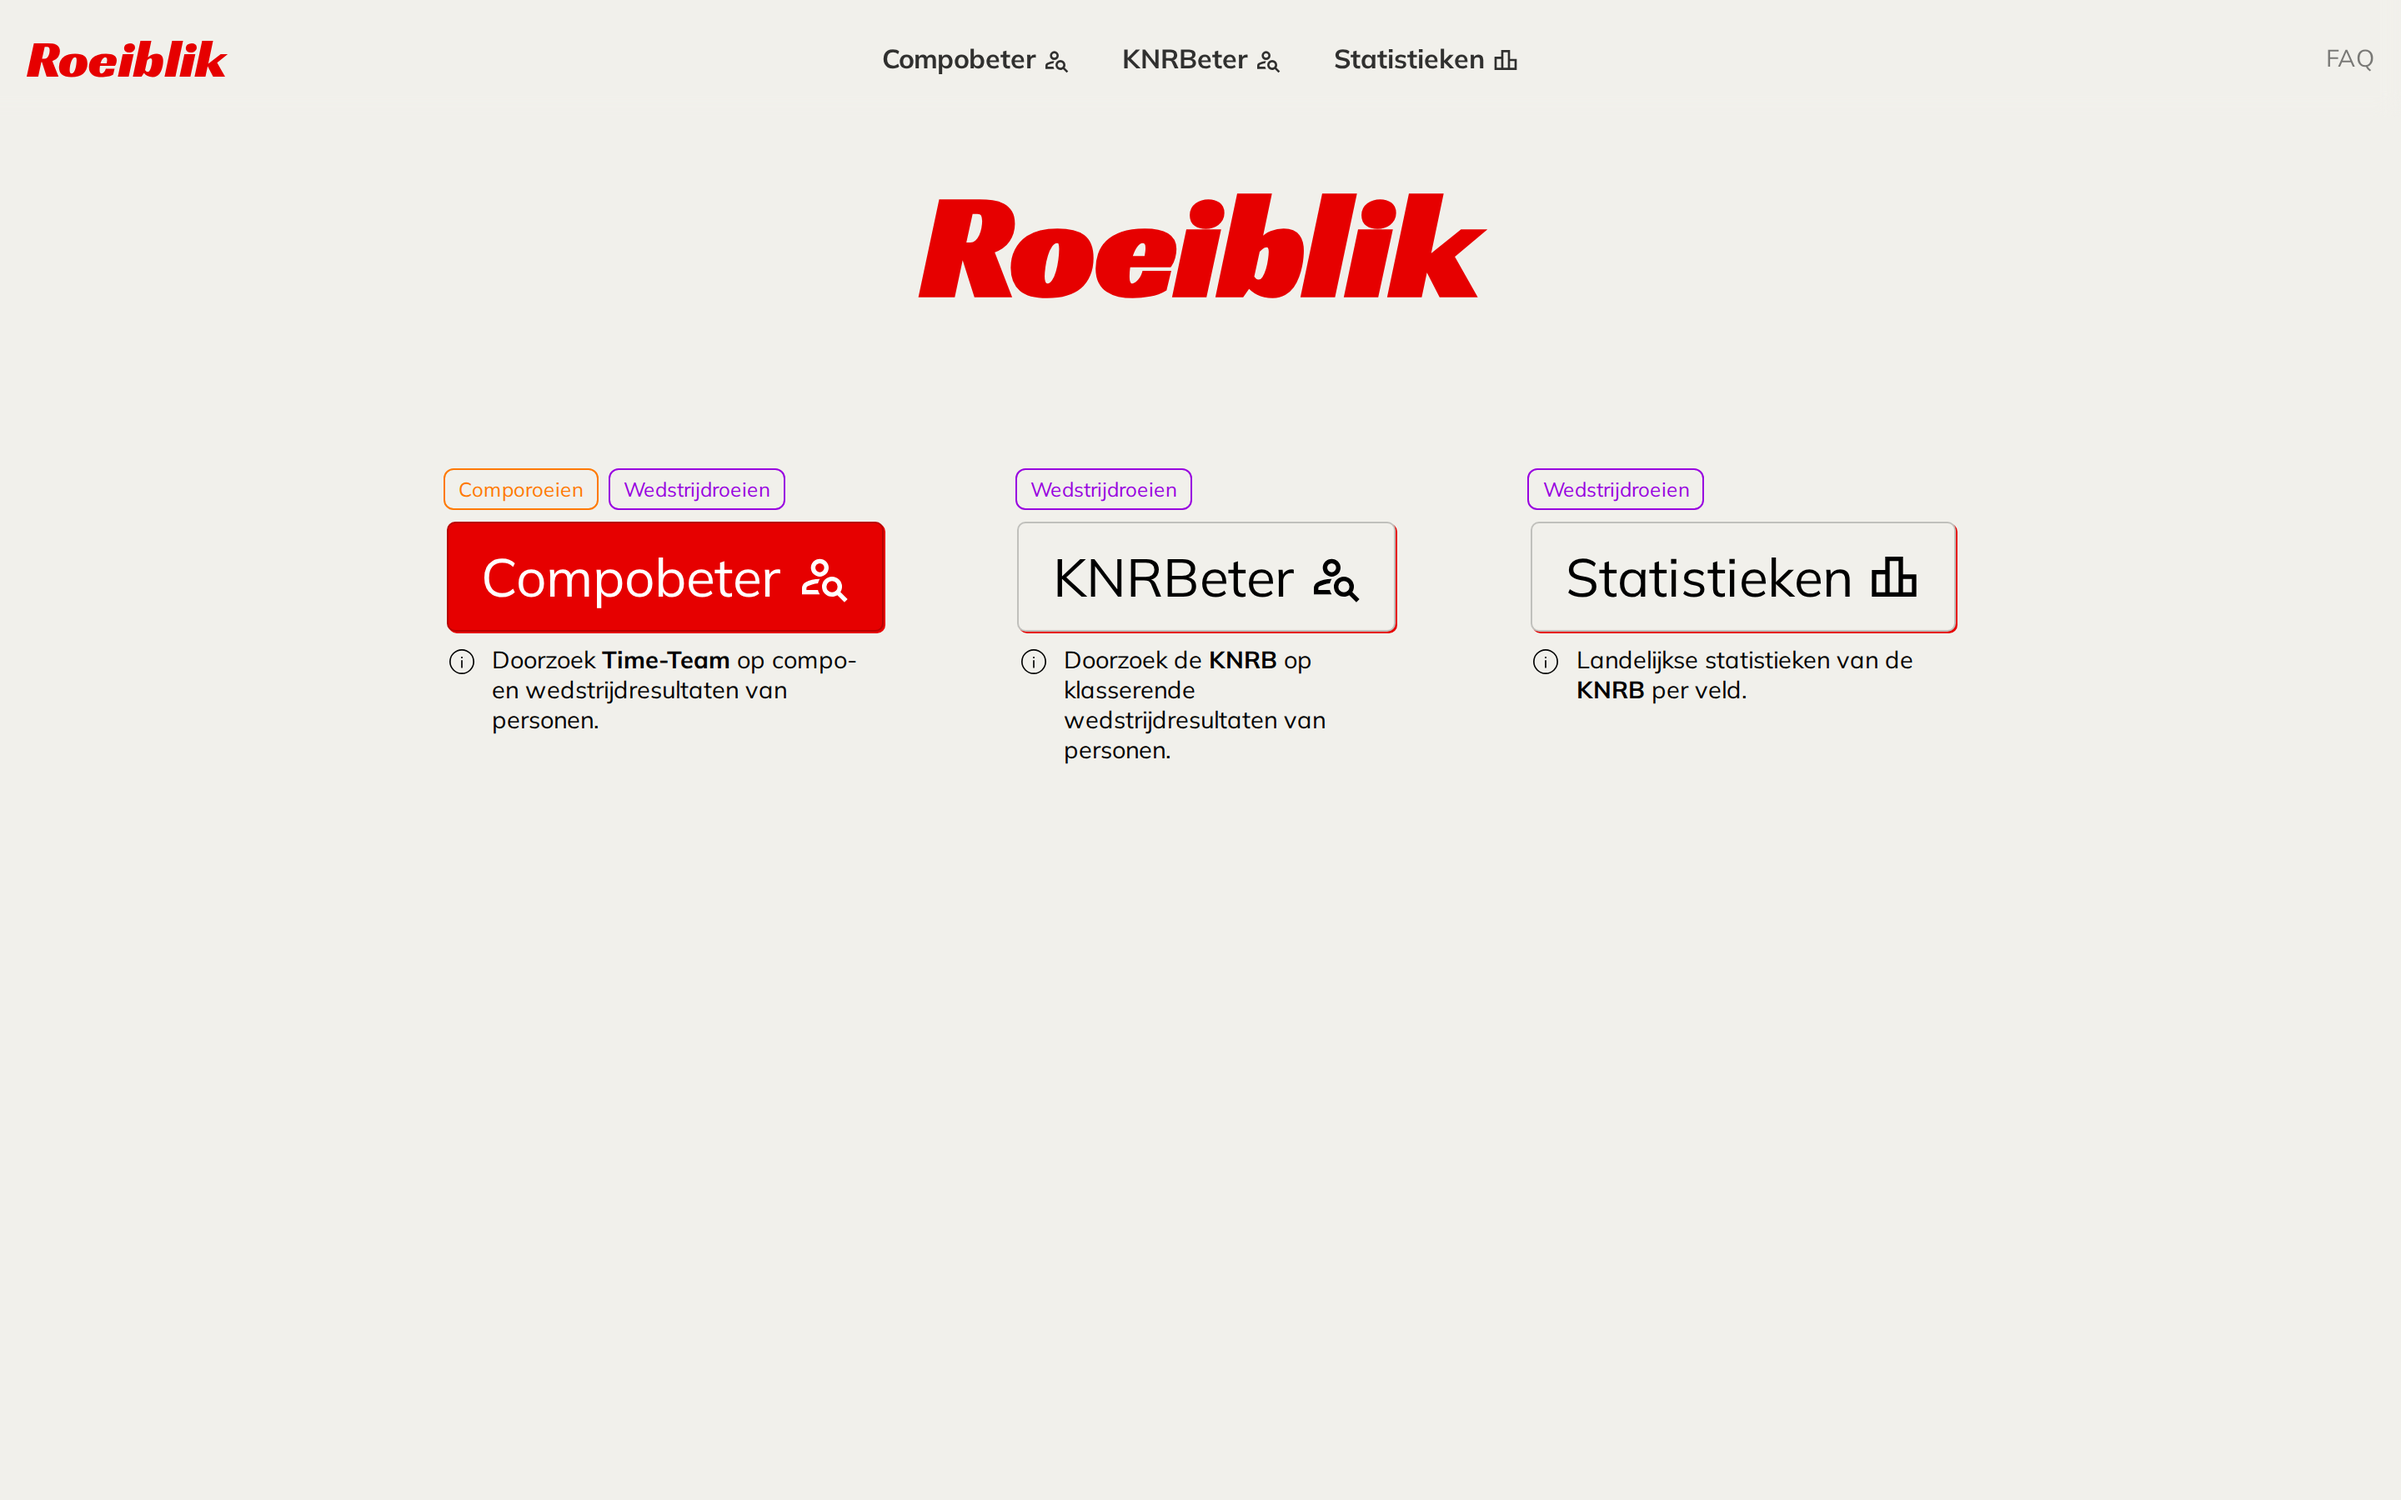
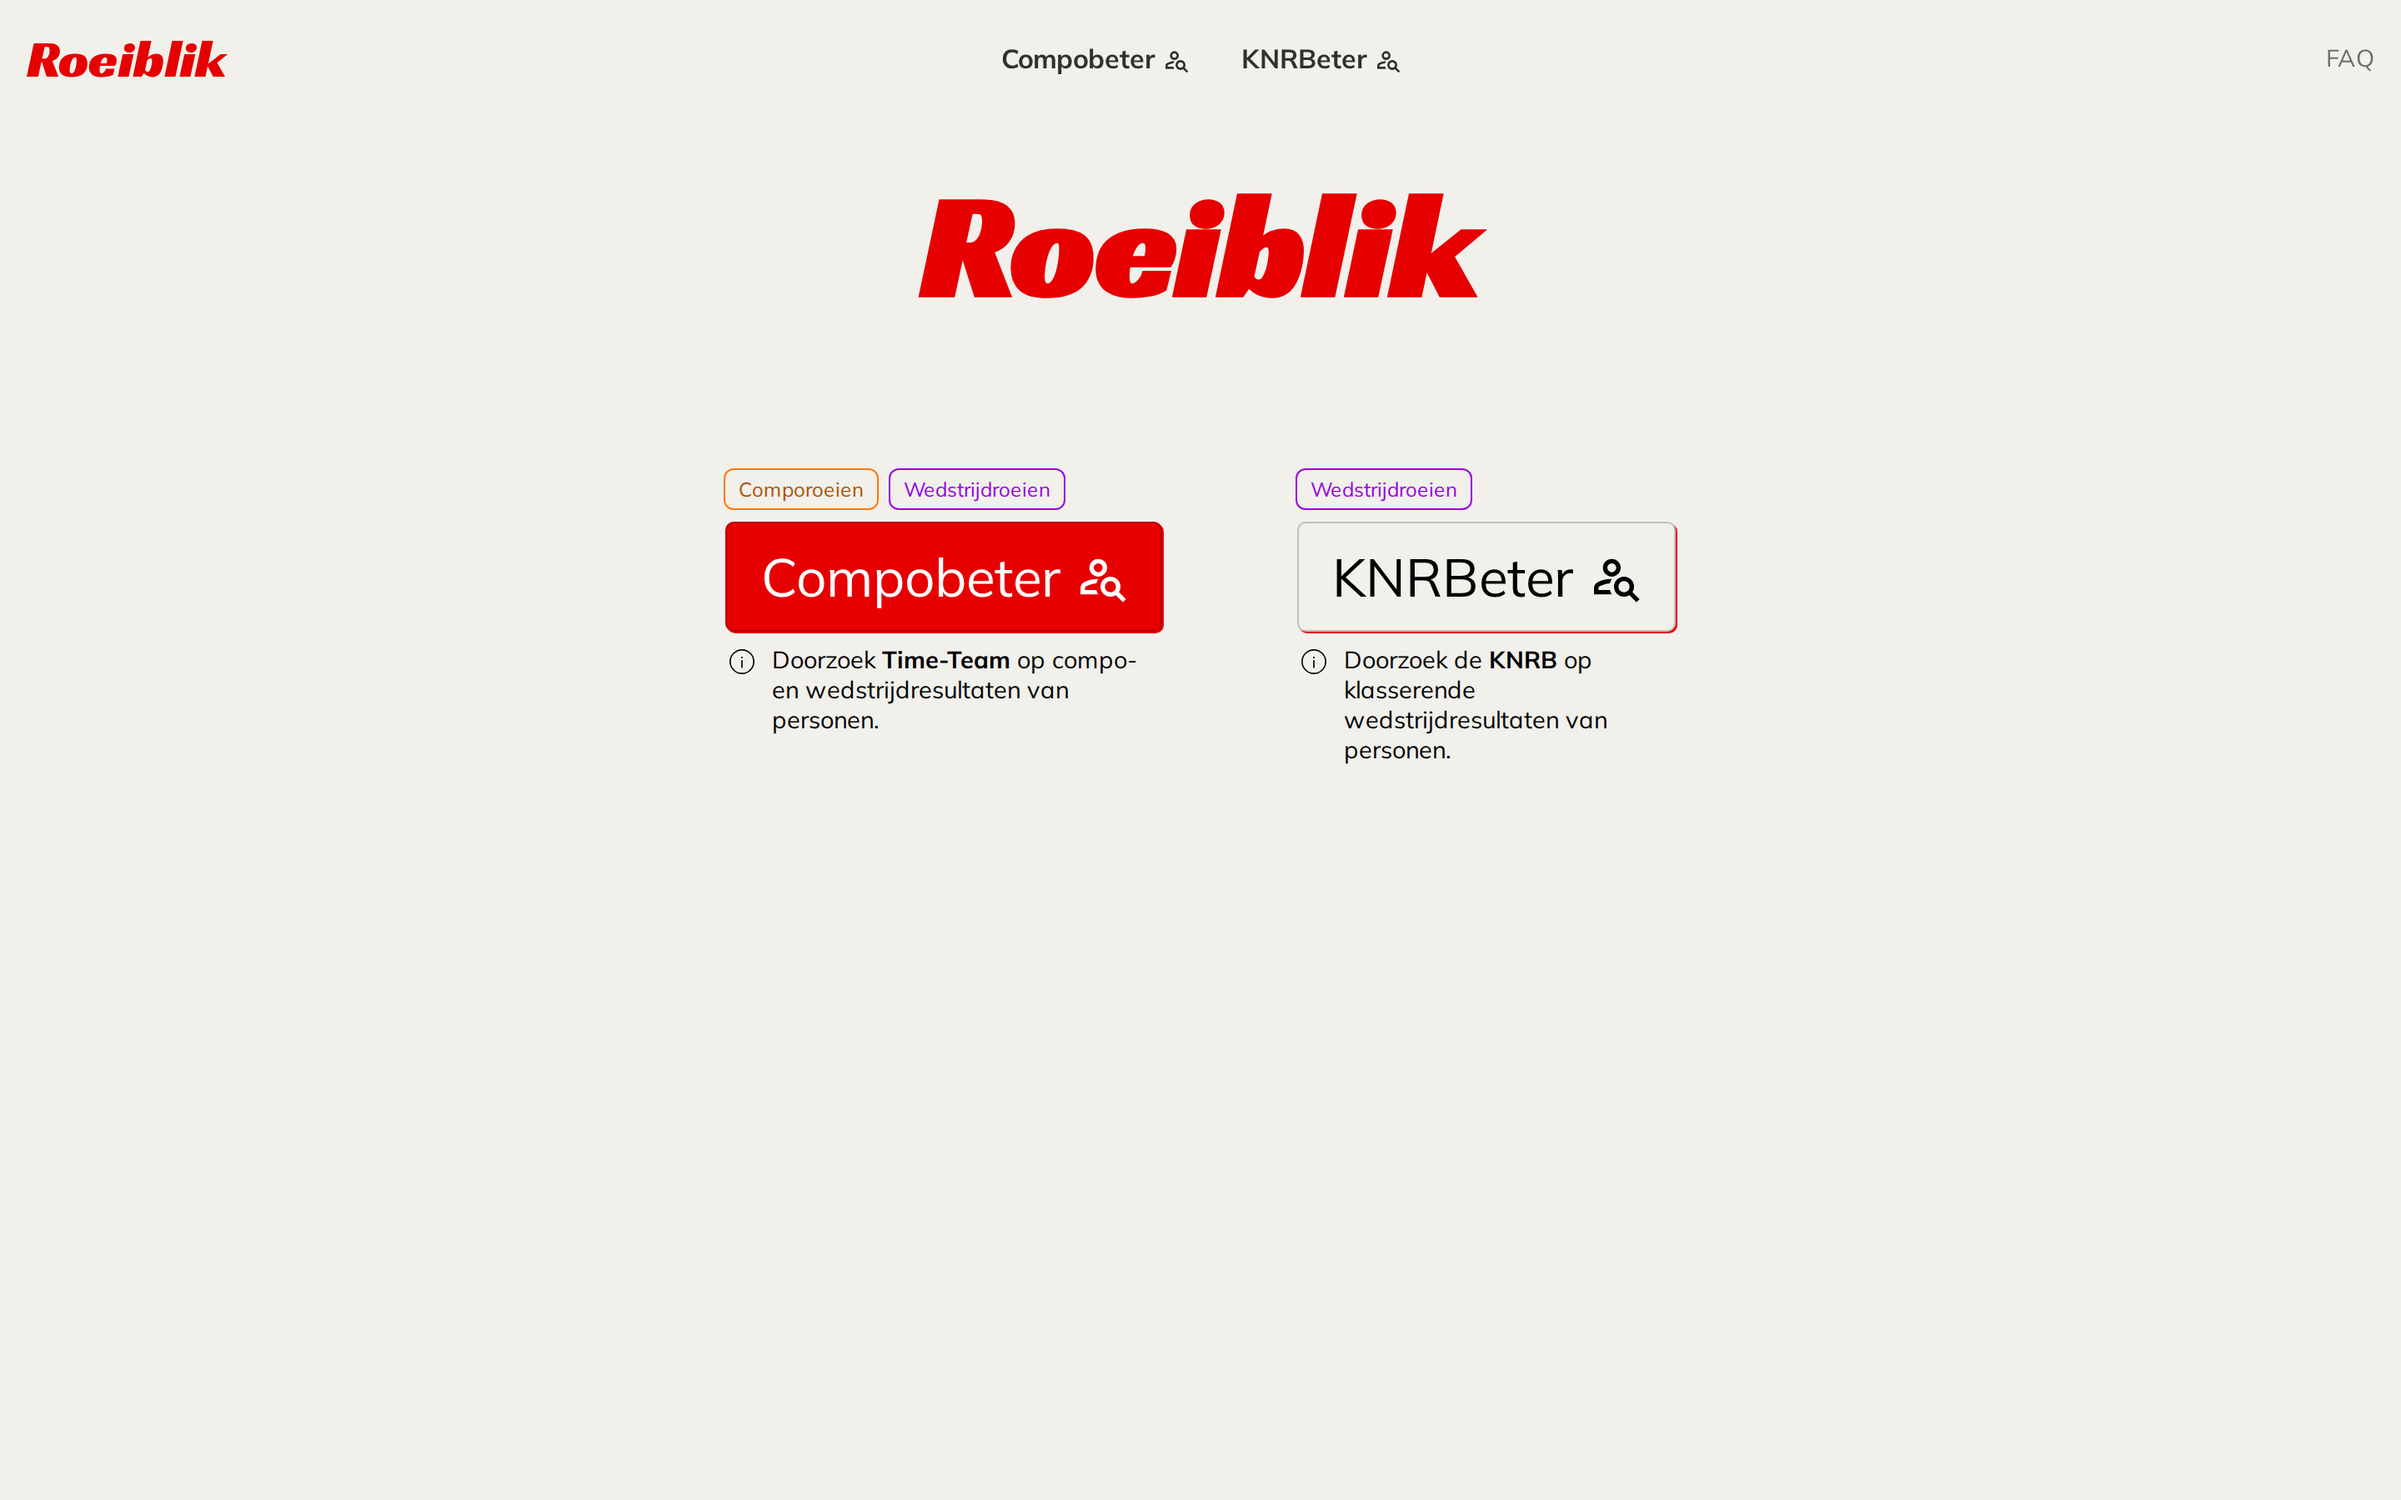
README: how it was built, then and since; screenshots of the current site
- "How it was built" now has two parts: 2024-2025 (designed in Figma, frontend by hand, the server
  routes with Gemini in the browser, 113 commits) and November 2026 (back online with Claude Code),
  the second as short grouped points: safe to run, up to date, wins, searches, lowercase addresses,
  fonts, phone and accessibility, findable but not the people, the statistics page removed.
- The commit count of the first period is 113, as in this repository (it said 121).
- The three screenshots are retaken from the live site: no statistics tile or menu link, the KNRB
  page with its "Alleen winsten" switch, and the Time-Team page on a phone with the menu button,
  4 wins and the trophy.

Changed region(s): [[0.1875, 0.3111, 0.8125, 0.5289], [0.375, 0.0311, 0.625, 0.0622], [0.5312, 0.3111, 0.7188, 0.3422]]

diff --git a/README.md b/README.md
@@ -16,7 +16,7 @@ races on one page, with times per 500 m, every round of a race, and their crewma
 </p>
 <p>
   <img src="docs/screenshots/knrb-person.png" alt="A rower's KNRB results" width="76%">
-  <img src="docs/screenshots/time-team-person-phone.png" alt="A rower's Time-Team results on a phone" width="21%">
+  <img src="docs/screenshots/time-team-person-phone.png" alt="A rower's Time-Team results and wins on a phone" width="21%">
 </p>
 
 ## Why it exists
@@ -27,22 +27,44 @@ Roeiblik on top of them. The KNRB's results were added later.
 
 ## How it was built
 
+### 2024–2025: designed in Figma, a hybrid build
+
 - **Designed in Figma first**: the last of Damian's projects with a hand-made design; later ones
   were designed with AI tools.
-- **November 2024 to April 2025**, 121 commits. A hybrid: the frontend (pages, components,
-  styling, the logic that groups a person's races) was written by hand. The server routes that
-  talk to the Time-Team and KNRB APIs were written with help from browser-based Gemini.
-- **November 2026, maintenance with Claude Code**, to put the site back online safely. It covered
-  the security and privacy work below, an upgrade from Nuxt 3.14 to Nuxt 4.6 with current versions
-  of every dependency, and a pass over the behaviour behind the unchanged look:
-  - the server merges a person's data before it reaches the browser;
-  - searches run on submit and survive the Back button;
-  - wins are decided on the server from complete data, by one rule on both tools: first place in
-    the race that decided the event (the A-final, or without a final the last round after which
-    nothing follows), never in a heat, repechage, semi-final or B-final;
-  - two-layer caching, keyboard and screen-reader support, and AA contrast.
+- **November 2024 to April 2025**, 113 commits, with Nuxt 3, Pinia, and Pug and SCSS templates.
+- **A hybrid.** The frontend (pages, components, styling, and the logic that groups a person's
+  races) was written by hand. The server routes that talk to the Time-Team and KNRB APIs
+  (November 2024 to January 2025) were written with help from Gemini in the browser, at
+  gemini.google.com.
+- There was also a statistics page with national KNRB results per event.
 
-  The statistics page was removed; its address redirects to KNRBeter.
+### November 2026: back online, with Claude Code
+
+The site was put back online safely with [Claude Code](https://claude.com/claude-code), without
+changing how it looks and works.
+
+- **Safe to run.** Every API route validates its input, people can ask to be removed, person pages
+  stay out of search engines, and there are no cookies. See [Security and privacy](#security-and-privacy).
+- **Up to date.** Nuxt 3.14 became Nuxt 4.6, with current versions of every dependency, running
+  on Cloudflare Workers.
+- **Wins that add up.** Wins are decided on the server, by one rule on both tools: first place in
+  the race that decided the event. That is the A-final, or without a final the last round after
+  which nothing follows; never a heat, repechage, semi-final or B-final. The count, the
+  *Alleen winsten* filter and the trophy all use that rule.
+- **Searches that behave.** A search runs when you submit it and survives the Back button. The
+  server merges a person's data before it reaches the browser. A quick answer shows no loader.
+  Each failure gets its own message: not found, too many requests, offline, or Time-Team or the
+  KNRB not answering.
+- **Lowercase addresses.** `/time-team` and `/knrb`. The old `/Time-Team` and `/KNRB` addresses
+  redirect in one step.
+- **Faster fonts.** 340 kB of TTF became 37 kB of WOFF2, with fallbacks of the same size. On a
+  slow phone the text is in Mulish after 4.3–4.5 s instead of 11–15 s, and no longer jumps
+  when the font arrives.
+- **Phone and accessibility.** A menu on phones, AA contrast, keyboard and screen-reader support,
+  and no sideways scrolling on a person page.
+- **Findable, but not the people.** robots.txt, a sitemap, `llms.txt`, canonical addresses and
+  link previews for the public pages. Person pages are `noindex`, and AI crawlers stay off them.
+- **Removed:** the statistics page. Its address redirects to KNRBeter.
 
 ## Addresses
 
@@ -83,8 +105,9 @@ Cloudflare Workers with static assets.
   same 404 as an unknown one. The routes return only the fields the pages show.
 - **Security headers** on every response: `X-Content-Type-Options`, `Referrer-Policy`,
   `X-Frame-Options`, `Permissions-Policy`, HSTS and a CSP with `frame-ancestors 'none'`.
-- **Person pages are `noindex`**, via both a header and a meta tag. People can be found by searching
-  on Roeiblik, not through search engines.
+- **Person pages are `noindex`**, via both a header and a meta tag. Their HTML holds no names: the
+  page loads them in the browser from `/api/`, which no crawler may fetch. People can be found by
+  searching on Roeiblik, not through search engines.
 - **Removal on request.** The ids in `NUXT_BLOCKED_PERSON_IDS` disappear from search results,
   crews and lineups, and their person pages answer as if they did not exist. See the
   [privacy page](https://roeiblik.com/privacy) (in Dutch).
